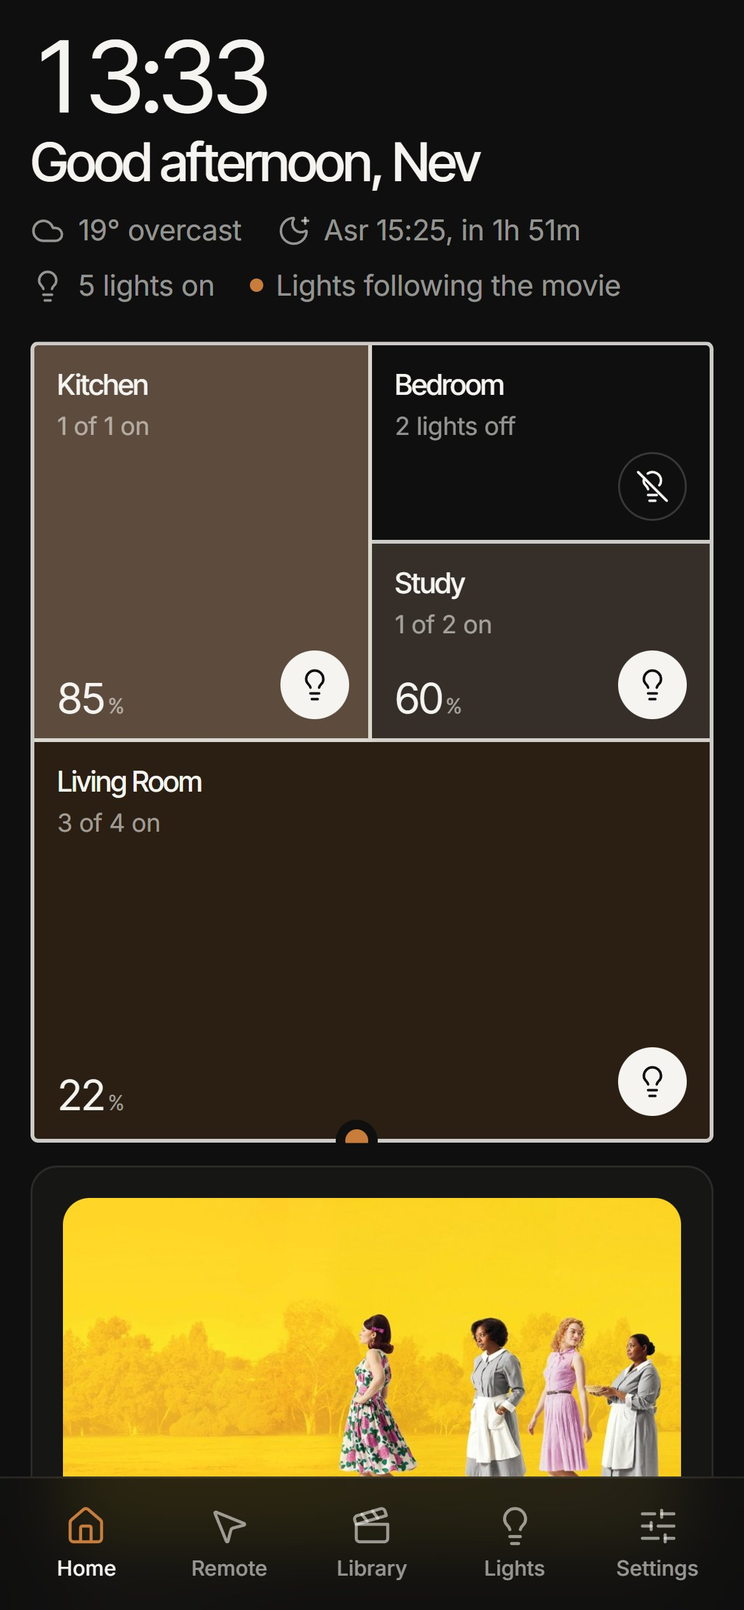
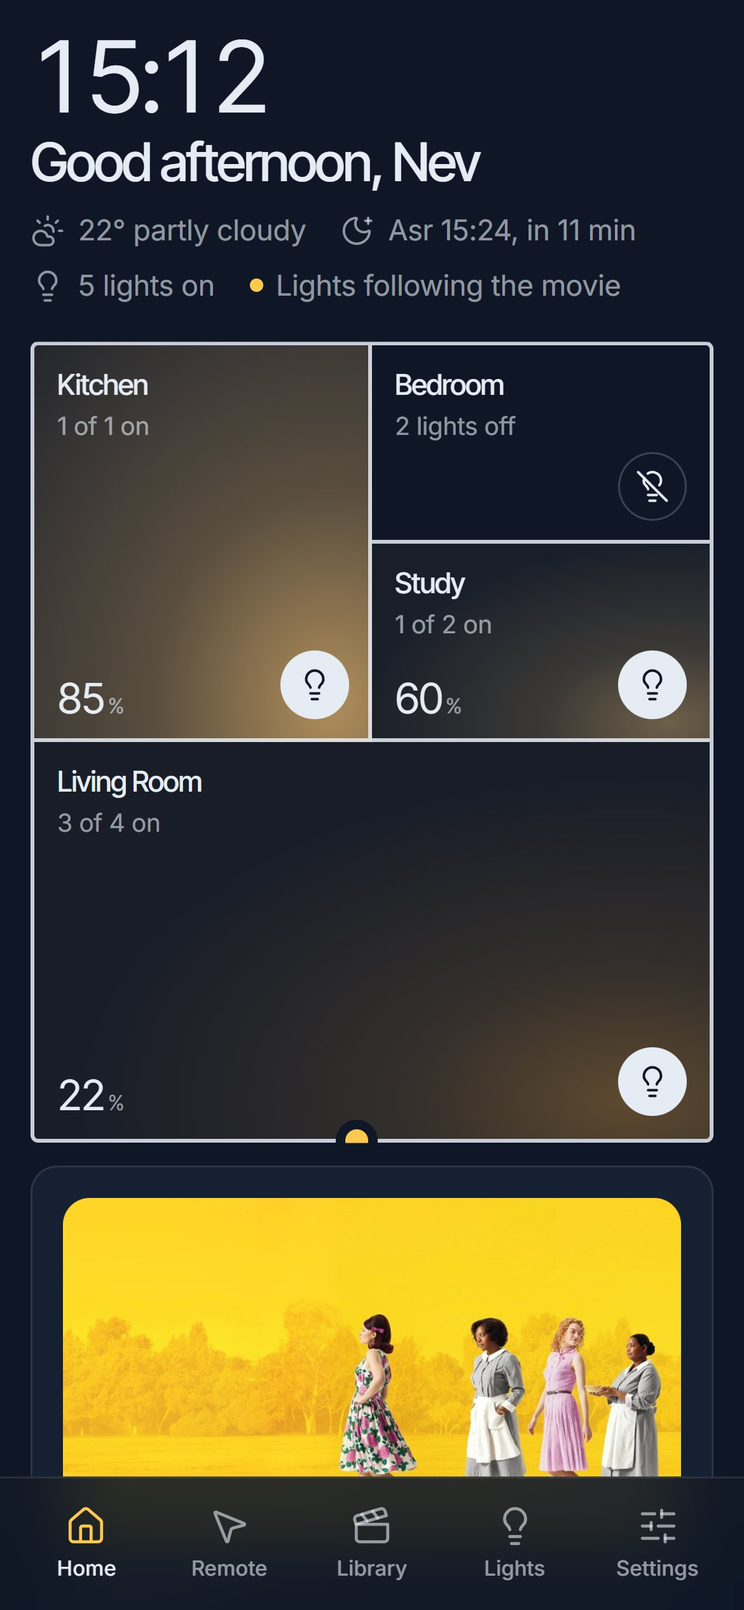
Blueprint palette: drafting navy, chalk lines, lamplight accent; lit rooms glow from the bulb

diff --git a/server/wwwroot/app.css b/server/wwwroot/app.css
@@ -1,25 +1,26 @@
-/* homefront — built on the brand tokens (near-black, warm white, amber; 400/500 only; tight tracking). */
+/* homefront "Blueprint": drafting navy, chalk-white lines, lamplight yellow for anything live. 400/500 only. */
 
 :root {
-  --bg: #0f0f0f;
-  --raised: #161615;
-  --raised-2: #1d1d1b;
-  --hover: rgba(245, 244, 240, 0.06);
-  --line: rgba(245, 244, 240, 0.09);
-  --line-2: rgba(245, 244, 240, 0.18);
-  --wall: rgba(245, 244, 240, 0.82);
-  --text: #f5f4f0;
-  --muted: rgba(245, 244, 240, 0.58);
-  --faint: rgba(245, 244, 240, 0.34);
-  --amber: #c97d3a;
-  --amber-hi: #e0955a;
-  --amber-soft: rgba(201, 125, 58, 0.16);
-  --on-amber: #0f0f0f;
-  --danger: #e5604d;
-  --sage: #8b9e7e;
-  --night: rgba(245, 244, 240, 0.04);
-  --day: rgba(245, 244, 240, 0.11);
-  --scrim: rgba(10, 10, 10, 0.72);
+  --bg: #0f1726;
+  --raised: #152033;
+  --raised-2: #1b283d;
+  --hover: rgba(230, 236, 244, 0.06);
+  --line: rgba(230, 236, 244, 0.10);
+  --line-2: rgba(230, 236, 244, 0.20);
+  --wall: rgba(230, 236, 244, 0.86);
+  --text: #e6ecf4;
+  --muted: rgba(230, 236, 244, 0.60);
+  --faint: rgba(230, 236, 244, 0.36);
+  --accent: #ffc94d;
+  --accent-hi: #ffd877;
+  --accent-soft: rgba(255, 201, 77, 0.15);
+  --on-accent: #0f1726;
+  --danger: #ff6b5e;
+  --night: rgba(230, 236, 244, 0.05);
+  --day: rgba(255, 201, 77, 0.20);
+  --scrim: rgba(7, 11, 20, 0.74);
+  --ink: #0b1220;           /* TV surfaces: ambient, image veils */
+  --chalk: #e6ecf4;
 
   --font: 'Inter', -apple-system, BlinkMacSystemFont, 'Segoe UI', sans-serif;
   --display: 'Inter Tight', 'Inter', -apple-system, BlinkMacSystemFont, 'Segoe UI', sans-serif;
@@ -33,22 +34,23 @@
   color-scheme: dark;
 }
 
+/* Light: blue-white paper and navy ink. Yellow can't carry contrast on white, so the accent deepens to gold. */
 @media (prefers-color-scheme: light) {
   :root:not([data-theme="dark"]) {
-    --bg: #f5f4f0; --raised: #ecebe5; --raised-2: #e4e2db; --hover: rgba(15, 15, 15, 0.05);
-    --line: rgba(15, 15, 15, 0.09); --line-2: rgba(15, 15, 15, 0.18); --wall: rgba(15, 15, 15, 0.82);
-    --text: #0f0f0f; --muted: rgba(15, 15, 15, 0.58); --faint: rgba(15, 15, 15, 0.36);
-    --amber: #b86c2b; --amber-hi: #c97d3a; --amber-soft: rgba(184, 108, 43, 0.14); --on-amber: #f5f4f0;
-    --night: rgba(15, 15, 15, 0.05); --day: rgba(15, 15, 15, 0.12); --scrim: rgba(240, 238, 232, 0.8);
+    --bg: #f3f6fa; --raised: #e9eef5; --raised-2: #dfe6ef; --hover: rgba(15, 23, 38, 0.05);
+    --line: rgba(15, 23, 38, 0.10); --line-2: rgba(15, 23, 38, 0.20); --wall: rgba(15, 23, 38, 0.84);
+    --text: #0f1726; --muted: rgba(15, 23, 38, 0.62); --faint: rgba(15, 23, 38, 0.38);
+    --accent: #b58300; --accent-hi: #c99400; --accent-soft: rgba(181, 131, 0, 0.13); --on-accent: #0f1726;
+    --night: rgba(15, 23, 38, 0.06); --day: rgba(181, 131, 0, 0.22); --scrim: rgba(226, 232, 241, 0.82);
     color-scheme: light;
   }
 }
 :root[data-theme="light"] {
-  --bg: #f5f4f0; --raised: #ecebe5; --raised-2: #e4e2db; --hover: rgba(15, 15, 15, 0.05);
-  --line: rgba(15, 15, 15, 0.09); --line-2: rgba(15, 15, 15, 0.18); --wall: rgba(15, 15, 15, 0.82);
-  --text: #0f0f0f; --muted: rgba(15, 15, 15, 0.58); --faint: rgba(15, 15, 15, 0.36);
-  --amber: #b86c2b; --amber-hi: #c97d3a; --amber-soft: rgba(184, 108, 43, 0.14); --on-amber: #f5f4f0;
-  --night: rgba(15, 15, 15, 0.05); --day: rgba(15, 15, 15, 0.12); --scrim: rgba(240, 238, 232, 0.8);
+  --bg: #f3f6fa; --raised: #e9eef5; --raised-2: #dfe6ef; --hover: rgba(15, 23, 38, 0.05);
+  --line: rgba(15, 23, 38, 0.10); --line-2: rgba(15, 23, 38, 0.20); --wall: rgba(15, 23, 38, 0.84);
+  --text: #0f1726; --muted: rgba(15, 23, 38, 0.62); --faint: rgba(15, 23, 38, 0.38);
+  --accent: #b58300; --accent-hi: #c99400; --accent-soft: rgba(181, 131, 0, 0.13); --on-accent: #0f1726;
+  --night: rgba(15, 23, 38, 0.06); --day: rgba(181, 131, 0, 0.22); --scrim: rgba(226, 232, 241, 0.82);
   color-scheme: light;
 }
 
@@ -64,8 +66,8 @@ img { display: block; max-width: 100%; }
 button, input, select, textarea { font: inherit; color: inherit; letter-spacing: inherit; }
 button { cursor: pointer; background: none; border: 0; padding: 0; }
 a { color: inherit; text-decoration: none; }
-:focus-visible { outline: 2px solid var(--amber); outline-offset: 2px; border-radius: var(--r-xs); }
-::selection { background: var(--amber-soft); }
+:focus-visible { outline: 2px solid var(--accent); outline-offset: 2px; border-radius: var(--r-xs); }
+::selection { background: var(--accent-soft); }
 .num { font-variant-numeric: tabular-nums; }
 .muted { color: var(--muted); }
 .faint { color: var(--faint); }
@@ -89,11 +91,11 @@ svg.i { width: 20px; height: 20px; flex: none; stroke-width: 1.75; }
 }
 .nav-item:hover { background: var(--hover); color: var(--text); }
 .nav-item[aria-current="page"] { color: var(--text); background: var(--raised-2); }
-.nav-item[aria-current="page"] svg { color: var(--amber); }
+.nav-item[aria-current="page"] svg { color: var(--accent); }
 .rail-foot { margin-top: auto; display: grid; gap: 10px; padding: 0 6px; }
 .status-line { display: flex; align-items: center; gap: 8px; font-size: 13px; color: var(--muted); padding: 0 6px; }
 .dot { width: 7px; height: 7px; border-radius: 50%; background: var(--faint); flex: none; }
-.dot.live { background: var(--amber); }
+.dot.live { background: var(--accent); }
 .dot.bad { background: var(--danger); }
 
 main { min-width: 0; min-height: 100dvh; padding: calc(28px + var(--safe-t)) var(--gutter) 64px; width: 100%; border-left: 1px solid var(--line); }
@@ -123,7 +125,7 @@ main > * { max-width: 1480px; }
   }
   .tabbar a { display: grid; justify-items: center; gap: 3px; padding: 6px 0; color: var(--muted); font-size: 11px; font-weight: 500; letter-spacing: 0; }
   .tabbar a[aria-current="page"] { color: var(--text); }
-  .tabbar a[aria-current="page"] svg { color: var(--amber); }
+  .tabbar a[aria-current="page"] svg { color: var(--accent); }
   .tabbar svg.i { width: 22px; height: 22px; }
 }
 
@@ -157,8 +159,8 @@ h1, h2, h3 { margin: 0; font-weight: 500; }
 }
 .btn:hover { background: var(--hover); border-color: var(--line-2); }
 .btn:active { transform: scale(0.97); }
-.btn.primary { background: var(--amber); color: var(--on-amber); border-color: transparent; }
-.btn.primary:hover { background: var(--amber-hi); }
+.btn.primary { background: var(--accent); color: var(--on-accent); border-color: transparent; }
+.btn.primary:hover { background: var(--accent-hi); }
 .btn.ghost { background: transparent; }
 .btn.danger { color: var(--danger); }
 .btn.sm { min-height: 34px; padding: 0 12px; font-size: 14px; }
@@ -170,7 +172,7 @@ h1, h2, h3 { margin: 0; font-weight: 500; }
 }
 .icon-btn:hover { background: var(--hover); }
 .icon-btn:active { transform: scale(0.94); }
-.icon-btn.on { background: var(--amber); color: var(--on-amber); border-color: transparent; }
+.icon-btn.on { background: var(--accent); color: var(--on-accent); border-color: transparent; }
 .icon-btn.big { width: 60px; height: 60px; }
 .icon-btn.big svg.i { width: 26px; height: 26px; }
 .icon-btn.plain { background: transparent; border-color: transparent; }
@@ -179,7 +181,7 @@ h1, h2, h3 { margin: 0; font-weight: 500; }
   display: inline-flex; align-items: center; gap: 8px; height: 34px; padding: 0 14px; border-radius: 999px;
   border: 1px solid var(--line); color: var(--muted); font-size: 14px; font-weight: 500; white-space: nowrap;
 }
-.chip[aria-pressed="true"], .chip.on { color: var(--text); border-color: var(--amber); background: var(--amber-soft); }
+.chip[aria-pressed="true"], .chip.on { color: var(--text); border-color: var(--accent); background: var(--accent-soft); }
 
 .field { display: grid; gap: 6px; }
 .field label { font-size: 13px; color: var(--muted); }
@@ -187,7 +189,7 @@ h1, h2, h3 { margin: 0; font-weight: 500; }
   height: 46px; padding: 0 14px; border-radius: var(--r-sm); border: 1px solid var(--line-2);
   background: var(--bg); outline: none; width: 100%; min-width: 0;
 }
-.input:focus { border-color: var(--amber); }
+.input:focus { border-color: var(--accent); }
 textarea.input { height: auto; padding: 12px 14px; resize: vertical; }
 
 /* range */
@@ -197,10 +199,10 @@ textarea.input { height: auto; padding: 12px 14px; resize: vertical; }
   --p: 50%;
 }
 .range input[type=range]::-webkit-slider-runnable-track {
-  height: 6px; border-radius: 99px; background: linear-gradient(to right, var(--amber) var(--p), var(--line-2) var(--p));
+  height: 6px; border-radius: 99px; background: linear-gradient(to right, var(--accent) var(--p), var(--line-2) var(--p));
 }
 .range input[type=range]::-moz-range-track { height: 6px; border-radius: 99px; background: var(--line-2); }
-.range input[type=range]::-moz-range-progress { height: 6px; border-radius: 99px; background: var(--amber); }
+.range input[type=range]::-moz-range-progress { height: 6px; border-radius: 99px; background: var(--accent); }
 .range input[type=range]::-webkit-slider-thumb {
   -webkit-appearance: none; width: 22px; height: 22px; margin-top: -8px; border-radius: 50%;
   background: var(--text); border: 0; box-shadow: 0 0 0 4px var(--bg);
@@ -218,12 +220,12 @@ textarea.input { height: auto; padding: 12px 14px; resize: vertical; }
 .toggle input { position: absolute; inset: 0; opacity: 0; margin: 0; cursor: pointer; }
 .toggle span { position: absolute; inset: 0; border-radius: 99px; background: var(--line-2); transition: background 160ms var(--ease); pointer-events: none; }
 .toggle span::after { content: ""; position: absolute; top: 3px; left: 3px; width: 26px; height: 26px; border-radius: 50%; background: var(--text); transition: transform 200ms var(--ease); }
-.toggle input:checked + span { background: var(--amber); }
-.toggle input:checked + span::after { transform: translateX(20px); background: var(--on-amber); }
-.toggle input:focus-visible + span { outline: 2px solid var(--amber); outline-offset: 2px; }
+.toggle input:checked + span { background: var(--accent); }
+.toggle input:checked + span::after { transform: translateX(20px); background: var(--on-accent); }
+.toggle input:focus-visible + span { outline: 2px solid var(--accent); outline-offset: 2px; }
 
 .progress { height: 3px; border-radius: 99px; background: var(--line-2); overflow: hidden; }
-.progress > i { display: block; height: 100%; background: var(--amber); border-radius: 99px; }
+.progress > i { display: block; height: 100%; background: var(--accent); border-radius: 99px; }
 
 .skeleton { background: var(--raised-2); border-radius: var(--r-sm); position: relative; overflow: hidden; }
 @media (prefers-reduced-motion: no-preference) {
@@ -263,7 +265,7 @@ textarea.input { height: auto; padding: 12px 14px; resize: vertical; }
   border: 1px solid var(--line); background: var(--raised); transition: border-color 160ms var(--ease), background 160ms var(--ease);
 }
 .scene:hover { border-color: var(--line-2); }
-.scene.busy { border-color: var(--amber); background: var(--amber-soft); }
+.scene.busy { border-color: var(--accent); background: var(--accent-soft); }
 .scene svg.i { color: var(--muted); }
 .scene b { font-weight: 500; display: block; }
 .scene small { color: var(--muted); font-size: 12.5px; line-height: 1.35; display: block; margin-top: 2px; }
@@ -299,8 +301,8 @@ textarea.input { height: auto; padding: 12px 14px; resize: vertical; }
 .room .bulb.on { background: var(--text); color: var(--bg); border-color: transparent; }
 .room .bright { font: 400 clamp(22px, 2.4vw, 34px)/1 var(--display); letter-spacing: -0.04em; font-variant-numeric: tabular-nums; }
 .room .bright small { font-size: 0.5em; color: var(--muted); margin-left: 2px; letter-spacing: 0; }
-.live-dot { position: absolute; width: 12px; height: 12px; border-radius: 50%; background: var(--amber); box-shadow: 0 0 0 5px var(--bg); }
-.live-dot.pulse::after { content: ""; position: absolute; inset: -6px; border-radius: 50%; border: 1.5px solid var(--amber); opacity: 0; }
+.live-dot { position: absolute; width: 12px; height: 12px; border-radius: 50%; background: var(--accent); box-shadow: 0 0 0 5px var(--bg); }
+.live-dot.pulse::after { content: ""; position: absolute; inset: -6px; border-radius: 50%; border: 1.5px solid var(--accent); opacity: 0; }
 @media (prefers-reduced-motion: no-preference) { .live-dot.pulse::after { animation: ping 2.4s var(--ease) infinite; } }
 @keyframes ping { 0% { transform: scale(0.6); opacity: 0.9; } 100% { transform: scale(2.2); opacity: 0; } }
 
@@ -375,7 +377,7 @@ textarea.input { height: auto; padding: 12px 14px; resize: vertical; }
 .svc::after { content: ""; position: absolute; left: 14px; right: 14px; bottom: 0; height: 3px; border-radius: 3px 3px 0 0; background: var(--c); opacity: 0.85; }
 .svc:hover { border-color: var(--line-2); }
 .svc:active { transform: scale(0.97); }
-.svc.busy { border-color: var(--amber); }
+.svc.busy { border-color: var(--accent); }
 .send-link { display: flex; gap: 8px; margin-top: 12px; }
 
 /* ---------- media rows ---------- */
@@ -389,7 +391,7 @@ textarea.input { height: auto; padding: 12px 14px; resize: vertical; }
 .tile .img img { width: 100%; height: 100%; object-fit: cover; transition: transform 500ms var(--ease); }
 .tile:hover .img img { transform: scale(1.03); }
 .tile .img .progress { position: absolute; left: 10px; right: 10px; bottom: 10px; height: 3px; background: rgba(255,255,255,0.25); }
-.tile .badge { position: absolute; top: 8px; right: 8px; min-width: 24px; height: 24px; padding: 0 7px; border-radius: 99px; background: var(--amber); color: var(--on-amber); font-size: 12px; font-weight: 500; display: grid; place-items: center; }
+.tile .badge { position: absolute; top: 8px; right: 8px; min-width: 24px; height: 24px; padding: 0 7px; border-radius: 99px; background: var(--accent); color: var(--on-accent); font-size: 12px; font-weight: 500; display: grid; place-items: center; }
 .tile b { font-weight: 500; display: block; }
 .tile span { color: var(--muted); font-size: 13px; }
 .grid-posters { display: grid; grid-template-columns: repeat(auto-fill, minmax(150px, 1fr)); gap: 18px 14px; }
@@ -398,10 +400,10 @@ textarea.input { height: auto; padding: 12px 14px; resize: vertical; }
 /* library hero */
 .lib-hero { position: relative; border-radius: var(--r-xl); overflow: hidden; min-height: clamp(280px, 38vw, 460px); display: flex; align-items: end; margin-bottom: 30px; background: var(--raised); border: 1px solid var(--line); }
 .lib-hero img.bg { position: absolute; inset: 0; width: 100%; height: 100%; object-fit: cover; }
-.lib-hero .veil { position: absolute; inset: 0; background: linear-gradient(to top, rgba(10,10,10,0.92) 0%, rgba(10,10,10,0.55) 45%, rgba(10,10,10,0.05) 100%); }
-.lib-hero .copy { position: relative; padding: clamp(20px, 3vw, 40px); max-width: 640px; color: #f5f4f0; }
+.lib-hero .veil { position: absolute; inset: 0; background: linear-gradient(to top, rgba(11, 18, 32, 0.92) 0%, rgba(11, 18, 32, 0.55) 45%, rgba(11, 18, 32, 0.05) 100%); }
+.lib-hero .copy { position: relative; padding: clamp(20px, 3vw, 40px); max-width: 640px; color: #e6ecf4; }
 .lib-hero h2 { font: 500 clamp(28px, 3.6vw, 48px)/1.02 var(--display); letter-spacing: -0.04em; }
-.lib-hero p { color: rgba(245,244,240,0.75); margin: 12px 0 20px; display: -webkit-box; -webkit-line-clamp: 3; -webkit-box-orient: vertical; overflow: hidden; }
+.lib-hero p { color: rgba(230, 236, 244, 0.75); margin: 12px 0 20px; display: -webkit-box; -webkit-line-clamp: 3; -webkit-box-orient: vertical; overflow: hidden; }
 .lib-tabs { display: flex; gap: 8px; align-items: center; margin-bottom: 22px; flex-wrap: wrap; }
 .lib-tabs .search { margin-left: auto; position: relative; width: min(320px, 100%); }
 .lib-tabs .search svg { position: absolute; left: 14px; top: 13px; color: var(--muted); }
@@ -464,7 +466,7 @@ textarea.input { height: auto; padding: 12px 14px; resize: vertical; }
 .mirror { position: relative; width: 100%; aspect-ratio: 16 / 9; border-radius: var(--r-md); overflow: hidden; background: #000; touch-action: none; user-select: none; -webkit-user-select: none; border: 1px solid var(--line); }
 .mirror img { width: 100%; height: 100%; object-fit: contain; pointer-events: none; -webkit-user-drag: none; }
 .mirror.pad { cursor: crosshair; }
-.mirror .ripple { position: absolute; width: 36px; height: 36px; margin: -18px 0 0 -18px; border-radius: 50%; border: 2px solid var(--amber); pointer-events: none; }
+.mirror .ripple { position: absolute; width: 36px; height: 36px; margin: -18px 0 0 -18px; border-radius: 50%; border: 2px solid var(--accent); pointer-events: none; }
 @media (prefers-reduced-motion: no-preference) { .mirror .ripple { animation: ripple 500ms var(--ease) forwards; } }
 @keyframes ripple { from { transform: scale(0.4); opacity: 1; } to { transform: scale(1.6); opacity: 0; } }
 .mirror-bar { display: flex; align-items: center; gap: 8px; margin-top: 12px; flex-wrap: wrap; }
@@ -474,10 +476,10 @@ textarea.input { height: auto; padding: 12px 14px; resize: vertical; }
   height: 260px; border-radius: var(--r-md); border: 1px dashed var(--line-2); display: grid; place-items: center; color: var(--faint);
   touch-action: none; user-select: none; -webkit-user-select: none; text-align: center; font-size: 13px; padding: 16px;
 }
-.touchpad.active { border-color: var(--amber); color: var(--muted); }
+.touchpad.active { border-color: var(--accent); color: var(--muted); }
 .keys { display: grid; grid-template-columns: repeat(4, 1fr); gap: 8px; }
 .key { height: 52px; border-radius: var(--r-sm); border: 1px solid var(--line); background: var(--raised-2); display: grid; place-items: center; font-weight: 500; font-size: 14px; }
-.key:active { background: var(--amber); color: var(--on-amber); transform: scale(0.96); }
+.key:active { background: var(--accent); color: var(--on-accent); transform: scale(0.96); }
 .dpad { display: grid; grid-template-columns: repeat(3, 64px); grid-template-rows: repeat(3, 64px); gap: 6px; justify-content: center; }
 .dpad .key { height: auto; }
 .dpad .ok { border-radius: 50%; background: var(--text); color: var(--bg); }
@@ -488,11 +490,11 @@ textarea.input { height: auto; padding: 12px 14px; resize: vertical; }
 .timeline .track { position: absolute; left: 0; right: 0; top: 34px; height: 14px; border-radius: 99px; overflow: hidden; background: var(--night); }
 .timeline .daylight { position: absolute; top: 0; bottom: 0; background: var(--day); }
 .timeline .tick { position: absolute; top: 30px; width: 2px; height: 22px; margin-left: -1px; background: var(--line-2); border-radius: 2px; }
-.timeline .tick.next { background: var(--amber); }
+.timeline .tick.next { background: var(--accent); }
 .timeline .label { position: absolute; top: 58px; transform: translateX(-50%); font-size: 11.5px; color: var(--muted); white-space: nowrap; letter-spacing: 0; }
 .timeline .label.next { color: var(--text); font-weight: 500; }
 .timeline .label.up { top: 8px; }
-.timeline .now { position: absolute; top: 35px; width: 12px; height: 12px; margin-left: -6px; border-radius: 50%; background: var(--amber); box-shadow: 0 0 0 3px var(--raised); }
+.timeline .now { position: absolute; top: 35px; width: 12px; height: 12px; margin-left: -6px; border-radius: 50%; background: var(--accent); box-shadow: 0 0 0 3px var(--raised); }
 .prayer-next { display: flex; align-items: baseline; gap: 12px; flex-wrap: wrap; }
 .prayer-next b { font: 500 26px/1 var(--display); letter-spacing: -0.035em; }
 .ramadan { display: grid; grid-template-columns: 1fr 1fr; gap: 10px; margin-top: 14px; }
@@ -520,7 +522,7 @@ textarea.input { height: auto; padding: 12px 14px; resize: vertical; }
 .form-grid .wide { grid-column: 1 / -1; }
 .list-edit { display: grid; gap: 8px; }
 .list-edit .row .input { height: 42px; }
-.qr { width: 220px; height: 220px; border-radius: var(--r-md); background: #f5f4f0; padding: 8px; }
+.qr { width: 220px; height: 220px; border-radius: var(--r-md); background: #e6ecf4; padding: 8px; }
 .steps { display: grid; gap: 12px; margin: 0; padding: 0; list-style: none; counter-reset: s; }
 .steps li { display: grid; grid-template-columns: 28px 1fr; gap: 12px; counter-increment: s; color: var(--muted); }
 .steps li::before { content: counter(s); width: 28px; height: 28px; border-radius: 50%; border: 1px solid var(--line-2); display: grid; place-items: center; font-size: 13px; color: var(--text); }
@@ -546,7 +548,7 @@ textarea.input { height: auto; padding: 12px 14px; resize: vertical; }
 
 /* ---------- ambient (TV wallpaper) ---------- */
 
-.ambient { position: fixed; inset: 0; background: #0a0a0a; color: #f5f4f0; overflow: hidden; cursor: none; --muted: rgba(245,244,240,0.55); --wall: rgba(245,244,240,0.5); --bg: #0a0a0a; --line-2: rgba(245,244,240,0.16); --hover: transparent; }
+.ambient { position: fixed; inset: 0; background: #0b1220; color: #e6ecf4; overflow: hidden; cursor: none; --muted: rgba(230, 236, 244, 0.55); --wall: rgba(230, 236, 244, 0.5); --bg: #0b1220; --line-2: rgba(230, 236, 244, 0.16); --hover: transparent; }
 .amb-inner { position: absolute; inset: 7vh 6vw; display: grid; grid-template-columns: 1fr auto; grid-template-rows: 1fr auto; gap: 4vh 4vw; transition: transform 4s var(--ease); }
 .amb-time { font: 400 min(22vw, 34vh)/0.82 var(--display); letter-spacing: -0.06em; font-variant-numeric: tabular-nums; align-self: end; }
 .amb-date { font: 400 min(2.6vw, 4vh)/1.2 var(--font); color: var(--muted); margin-top: 3vh; letter-spacing: -0.02em; }
@@ -562,17 +564,17 @@ textarea.input { height: auto; padding: 12px 14px; resize: vertical; }
 
 /* ---------- kiosk player ---------- */
 
-.player { position: fixed; inset: 0; background: #000; color: #f5f4f0; cursor: none; }
+.player { position: fixed; inset: 0; background: #000; color: #e6ecf4; cursor: none; }
 .player video { width: 100%; height: 100%; object-fit: contain; background: #000; }
 .player .osd { position: absolute; left: 0; right: 0; bottom: 0; padding: 6vh 5vw 6vh; background: linear-gradient(to top, rgba(0,0,0,0.85), transparent); transition: opacity 400ms var(--ease); }
 .player .osd.hidden { opacity: 0; }
 .player .osd h1 { font: 500 min(3vw, 5vh)/1.1 var(--display); letter-spacing: -0.035em; }
-.player .osd p { color: rgba(245,244,240,0.7); margin: 6px 0 2.4vh; font-size: min(1.4vw, 2.4vh); }
+.player .osd p { color: rgba(230, 236, 244, 0.7); margin: 6px 0 2.4vh; font-size: min(1.4vw, 2.4vh); }
 .player .osd .progress { height: 5px; background: rgba(255,255,255,0.2); }
-.player .osd .times { display: flex; justify-content: space-between; margin-top: 10px; font-size: min(1.2vw, 2vh); color: rgba(245,244,240,0.7); font-variant-numeric: tabular-nums; }
+.player .osd .times { display: flex; justify-content: space-between; margin-top: 10px; font-size: min(1.2vw, 2vh); color: rgba(230, 236, 244, 0.7); font-variant-numeric: tabular-nums; }
 .player .center { position: absolute; inset: 0; display: grid; place-items: center; pointer-events: none; }
-.player .spinner { width: 54px; height: 54px; border-radius: 50%; border: 3px solid rgba(255,255,255,0.15); border-top-color: var(--amber); }
+.player .spinner { width: 54px; height: 54px; border-radius: 50%; border: 3px solid rgba(255,255,255,0.15); border-top-color: var(--accent); }
 @media (prefers-reduced-motion: no-preference) { .player .spinner { animation: spin 900ms linear infinite; } }
 @keyframes spin { to { transform: rotate(360deg); } }
-.player .upnext { position: absolute; right: 5vw; bottom: 16vh; background: rgba(15,15,15,0.9); border: 1px solid rgba(255,255,255,0.12); border-radius: 18px; padding: 18px 22px; font-size: min(1.4vw, 2.4vh); max-width: 30vw; }
+.player .upnext { position: absolute; right: 5vw; bottom: 16vh; background: rgba(11, 18, 32, 0.9); border: 1px solid rgba(255,255,255,0.12); border-radius: 18px; padding: 18px 22px; font-size: min(1.4vw, 2.4vh); max-width: 30vw; }
 .player .upnext b { display: block; font: 500 min(1.8vw, 3vh)/1.2 var(--display); margin-top: 4px; }

diff --git a/server/wwwroot/index.html b/server/wwwroot/index.html
@@ -5,8 +5,8 @@
   <meta name="viewport" content="width=device-width, initial-scale=1, viewport-fit=cover, interactive-widget=resizes-content">
   <title>homefront</title>
   <meta name="description" content="Lights, TV, media and the HTPC in one place.">
-  <meta name="theme-color" content="#0f0f0f" media="(prefers-color-scheme: dark)">
-  <meta name="theme-color" content="#f5f4f0" media="(prefers-color-scheme: light)">
+  <meta name="theme-color" content="#0f1726" media="(prefers-color-scheme: dark)">
+  <meta name="theme-color" content="#f3f6fa" media="(prefers-color-scheme: light)">
   <meta name="apple-mobile-web-app-capable" content="yes">
   <meta name="mobile-web-app-capable" content="yes">
   <meta name="apple-mobile-web-app-status-bar-style" content="black-translucent">

diff --git a/server/WinSystem.cs b/server/WinSystem.cs
@@ -208,11 +208,11 @@ public static class WinScreen
         var r = Math.Max(10, b.Width / 160);
         var x = p.X - b.Left; var y = p.Y - b.Top;
         g.SmoothingMode = SmoothingMode.AntiAlias;
-        using var outline = new Pen(Color.FromArgb(230, 15, 15, 15), r / 2.2f);
-        using var ring = new Pen(Color.FromArgb(255, 0xC9, 0x7D, 0x3A), r / 3.5f);
+        using var outline = new Pen(Color.FromArgb(230, 11, 18, 32), r / 2.2f);
+        using var ring = new Pen(Color.FromArgb(255, 0xFF, 0xC9, 0x4D), r / 3.5f);
         g.DrawEllipse(outline, x - r, y - r, r * 2, r * 2);
         g.DrawEllipse(ring, x - r, y - r, r * 2, r * 2);
-        using var dot = new SolidBrush(Color.FromArgb(255, 0xC9, 0x7D, 0x3A));
+        using var dot = new SolidBrush(Color.FromArgb(255, 0xFF, 0xC9, 0x4D));
         g.FillEllipse(dot, x - r / 4f, y - r / 4f, r / 2f, r / 2f);
     }
 }

diff --git a/server/Program.cs b/server/Program.cs
@@ -197,7 +197,7 @@ app.MapGet("/api/qr.svg", (string data) =>
 {
     using var gen = new QRCodeGenerator();
     using var qr = gen.CreateQrCode(data, QRCodeGenerator.ECCLevel.Q);
-    return Results.Text(new SvgQRCode(qr).GetGraphic(8, "#0f0f0f", "#f5f4f0", drawQuietZones: true), "image/svg+xml");
+    return Results.Text(new SvgQRCode(qr).GetGraphic(8, "#0f1726", "#f3f6fa", drawQuietZones: true), "image/svg+xml");
 });
 
 // ---------------- Home Assistant ----------------

diff --git a/server/Config.cs b/server/Config.cs
@@ -110,7 +110,7 @@ public class Shortcut
 {
     public string Name { get; set; } = "";
     public string Url { get; set; } = "";
-    public string Color { get; set; } = "#c97d3a";
+    public string Color { get; set; } = "#ffc94d";
 }
 
 public class ConfigStore

diff --git a/README.md b/README.md
@@ -17,7 +17,7 @@
 
 homefront runs on the HTPC that's plugged into the TV and becomes the one place to control everything around it. Open it on a phone, a laptop, a tablet or the TV itself.
 
-- **The house as a live floor plan.** Each room glows with the real colour temperature and brightness of its bulbs. Tap a room for per-bulb brightness, warmth and colour. An amber dot on the wall marks the room where something is playing.
+- **The house as a live floor plan.** Each room glows with the real colour temperature and brightness of its bulbs. Tap a room for per-bulb brightness, warmth and colour. A lamplight-yellow dot on the wall marks the room where something is playing.
 - **Lights that follow what's playing.** When a video plays on the HTPC (the built-in player, a browser tab, or VLC), the TV room dims. Pause brings the lights up a little; stopping puts every bulb back exactly as it was. Lights that were off stay off, so nothing switches on in the daytime.
 - **A remote that shows the screen.** A live mirror of the TV. Tap anything on it to click it there, or switch to a touchpad with two-finger scrolling. Type into search boxes from your phone, send keys, control media and system volume.
 - **Your Jellyfin library, played on the TV.** Browse, search and press *Play on TV*. A full-screen kiosk player opens on the HTPC and is controlled from your phone, resumes where you left off, reports progress back to Jellyfin and moves to the next episode on its own.
